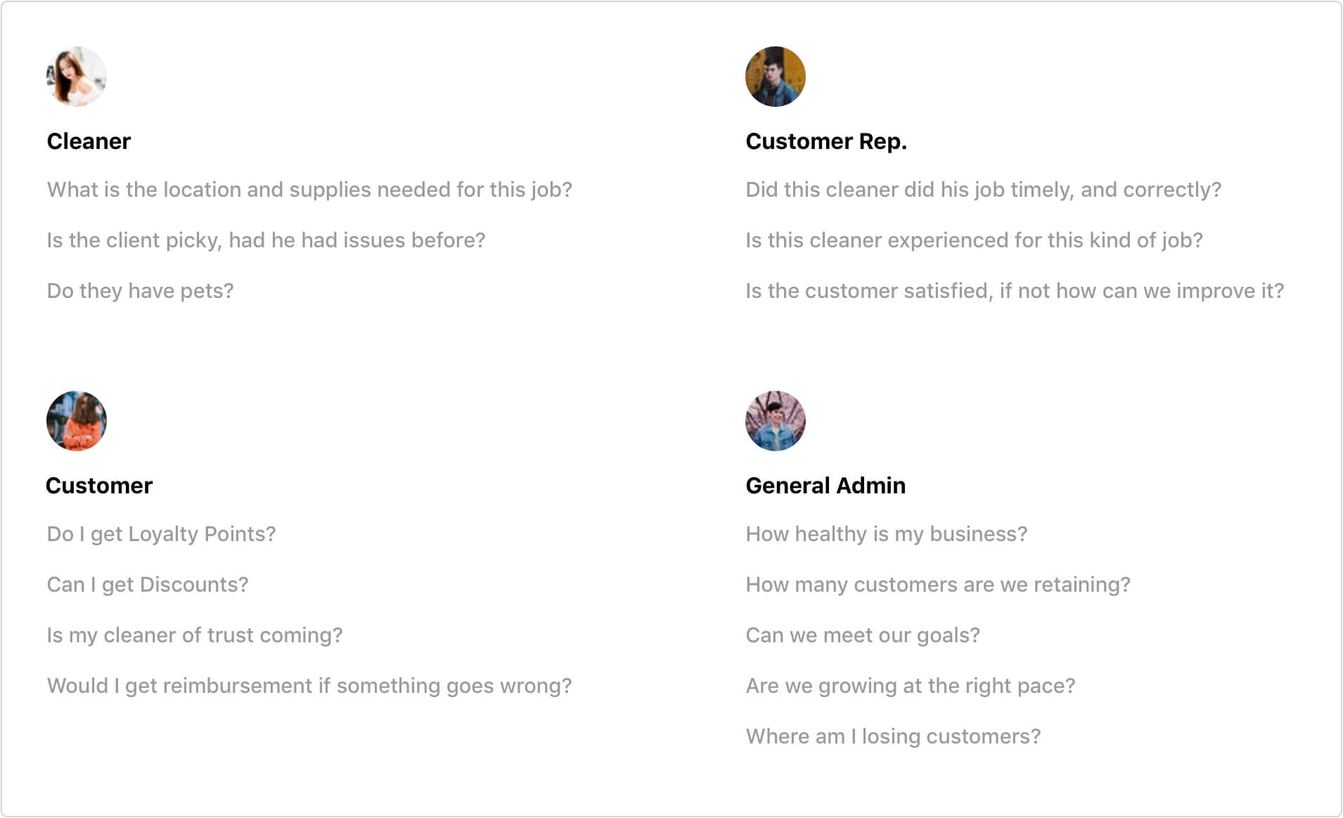
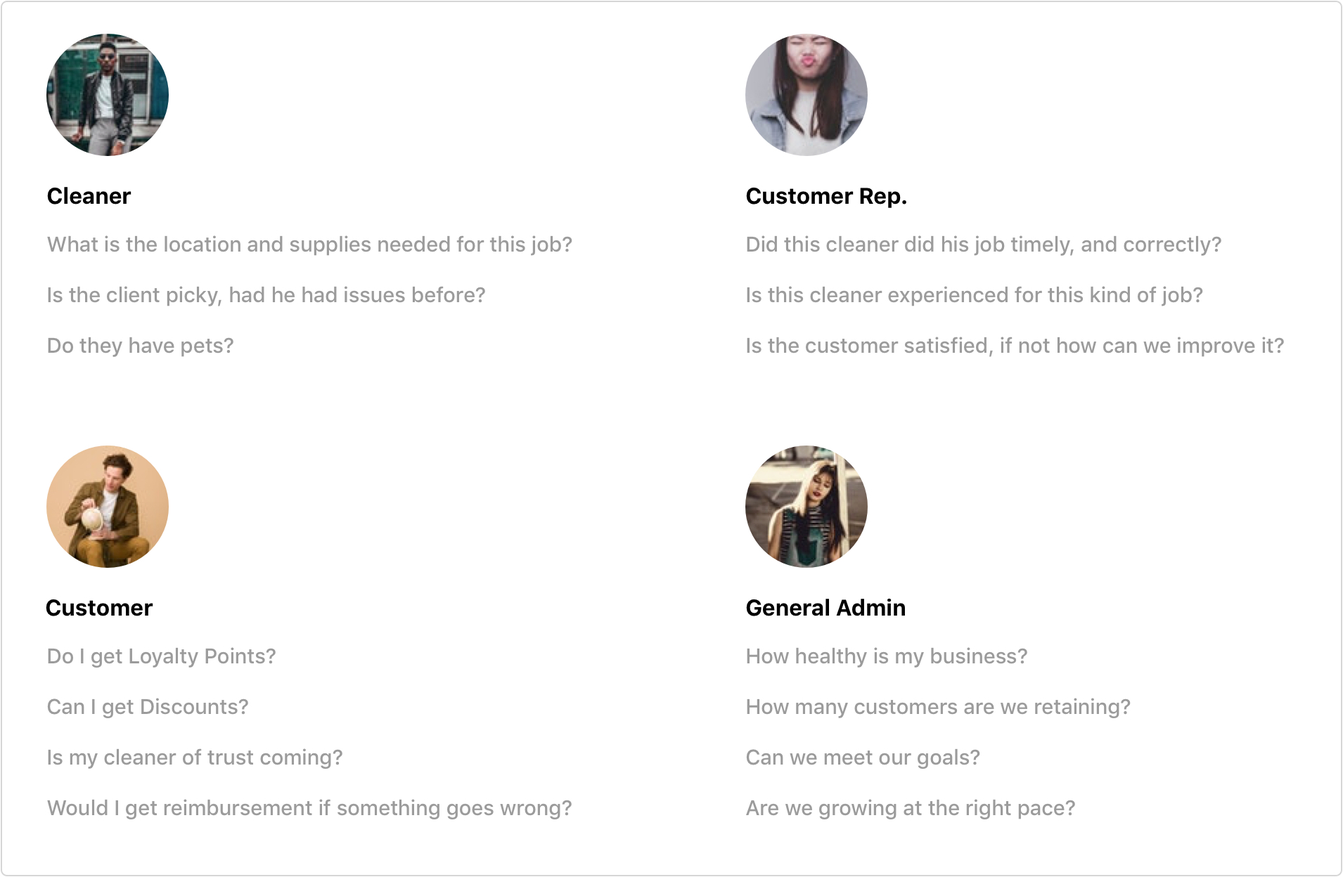
CRM case study

diff --git a/_includes/cleancrm.html b/_includes/cleancrm.html
@@ -1,1 +1,2 @@
-<section role="main" class="margin-bottom-75"><div class="container"><div class="row"><div class="col-md-8 col-md-offset-3 col-sx-12"><div class="intro-text"><h1 class="work-sans title intro-title color-0">Clean CRM</h1></div><p>Management product for cleaning service companies. Smoothly administrating all the customers, bookings, quotes and employees on a cleaning service company.</p></div></div></div></section><article role="article" class="no-margin-bottom margin-top-50"><div class="container"><div class="row"><div class="col-xs-12 col-md-12"><img src="/img/work/cleancrm/crm-header.jpg" alt="intro crm" class="no-margin-bottom"/></div></div></div></article><article role="article" class="no-margin-top"><hr/><div class="container margin-top-25"><div class="row"><div class="col-md-3"><div class="row"><p></p><div class="col-xs-3"><h2 class="section-description muted no-margin">Name</h2></div><div class="col-xs-6"><h2 class="section-description no-margin">Clean CRM</h2></div></div><div class="row"><div class="col-xs-3"><h2 class="section-description muted no-margin">Year</h2></div><div class="col-xs-6"><h2 class="section-description no-margin">2016 — 2017</h2></div></div><div class="row"><div class="col-xs-3"><h2 class="section-description muted no-margin">Role</h2></div><div class="col-xs-6"><h2 class="section-description no-margin">Sole Designer</h2></div></div><div class="row"><div class="col-xs-3"><h2 class="section-description muted no-margin">Time</h2></div><div class="col-xs-6"><h2 class="section-description no-margin">8 weeks</h2></div></div></div><div class="col-md-9"><p> </p><p>I partnered up with an NYC Cleaning Service company wanting to automate their services. They had a non-functioning MVP and a clear goal before reaching out. </p><p> The application that they were using previously failed to adapt to the increasingly complex demands of new features to support a growing cleaning service company. </p><p>The company used another a third party software service that even though offered data about bookings and quotes, was missing the customer features and a way to keep everything organized.</p><div class="row"><div class="col-md-12 margin-bottom-50"><img src="/img/work/cleancrm/old-dashboards.jpg" alt="old dashboards"/></div></div></div></div></div></article><article role="article" class="margin-top-25"><hr/><div class="container margin-top-25"><div class="row"><div class="col-md-3"><h2 class="section-title">RESEARCH</h2></div><div class="col-md-9"><p></p><p>The client and me, tried to be effective during our research phase, making it short and useful. We gathered data from user feedback, reports, and competitive analysis. We continued to create assumptions that we later validated with surveys and interviews of the staff.</p><p>The client and staff had needs, but customers too. Trying to get those goals aligned to scoping which features would be useful to them, what goals do they need to accomplish as a Staff and what are the customer needs and desires.</p><div class="margin-top-25"></div></div></div></div></article><article role="article" class="margin-top-25"><hr/><div class="container margin-top-25"><div class="row"><div class="col-md-3"><h2 class="section-title">Persona Development</h2></div><div class="col-md-9"><p></p><p>Our users are admins, they work in the doing customer support for the cleaning service company. They should take calls from client complains, take the information down and make decisions like provide refunds, assign new cleaners, create assignments and give them rewards. Their role is to assist the customer with all their needs, have a clear and fast understanding of the complete the company.</p><p>To test our ideas and hypothesis, we created some profiles of the often employees. Testing helped understand possible scenarios and to see which functions could be useful.</p><p>We also created profiles of the customers and their needs and goals, even though they are not using the application. Having a perspective of their goals is what is going to drive us to make a useful product.</p><p></p><div class="row margin-top-25"><div class="col-xs-12 col-md-6 margin-bottom-25"><img src="/img/work/cleancrm/pp1.jpg" alt="person cleaner" class="mw-10 no-margin"/><h3 class="f1 lh-1 work-sans">Cleaner</h3><p class="f2 lh-1">What is the location and supplies needed for this job?  </p><p class="f2 lh-1">Is the client picky, had he had issues before?</p><p class="f2 lh-1">  Do they have pets?</p><h3> </h3></div><div class="col-xs-12 col-md-6 margin-bottom-25"><img src="/img/work/cleancrm/pp2.jpg" alt="person cleaner" class="mw-10 no-margin"/><h3 class="f1 lh-1 work-sans">Customer Rep.</h3><p class="f2 lh-1">Did this cleaner did his job timely, and correctly? </p><p class="f2 lh-1">Is this cleaner experienced for this kind of job?</p><p class="f2 lh-1">Is the customer satisfied, if not how can we improve it?</p><h3></h3></div><div class="col-xs-12 col-md-6 margin-bottom-25"><img src="/img/work/cleancrm/pp3.jpg" alt="person cleaner" class="mw-10 no-margin"/><h3 class="f1 lh-1 work-sans">Customer</h3><p class="f2 lh-1">Do I get Loyalty Points?  </p><p class="f2 lh-1">Is my cleaner of trust coming?</p><p class="f2 lh-1">Is the customer satisfied, if not how can we improve it?</p><p class="f2 lh-1"> Would I get reimbursement if something goes wrong?</p><h3></h3></div><div class="col-xs-12 col-md-6 margin-bottom-25"><img src="/img/work/cleancrm/pp4.jpg" alt="person cleaner" class="mw-10 no-margin"/><h3 class="f1 lh-1 work-sans">General Admin</h3><p class="f2 lh-1">How healthy is my business?</p><p class="f2 lh-1">  How many customers are we retaining?</p><p class="f2 lh-1">  Can we meet our goals?</p><p class="f2 lh-1">  Are we growing at the right pace?</p><p class="f2 lh-1">  Where am I losing customers?</p><h3></h3></div></div></div></div></div></article><article role="article" class="margin-top-25"><hr/><div class="container margin-top-25"><div class="row"><div class="col-md-3"><h2 class="section-title">User Task Flow</h2></div><div class="col-md-9"><p></p><p>Task flows helped us to think through the design before a feature is actually developed. It helped us to interject the user into the flow model of the application to determine if it matches conceptually with what we need.</p><div class="margin-top-25"><div class="row"><div class="col-xs-12 col-md-12"><img src="/img/work/cleancrm/user-task-flow-1.jpg" alt="user task flow"/></div></div></div></div></div></div></article><article role="article" class="no-margin margin-top-25"><hr/><div class="container margin-top-25"><div class="row"><div class="col-md-3"><h2 class="section-title margin-bottom-25">COMPETITIVE RESEARCH</h2></div><div class="col-md-9"><p></p><p>It is essential to look into other players on the market and understand the products that we are going to compete. We have two main categories in the direct competition, software companies who offer the service and other traditional cleaning service companies.</p><p>In the end, we agreed on creating a Saas Product to spread the business goals offering a CRM tool for small-medium size cleaning service companies.</p><h2></h2><p>Metrics for the competitive analysis:</p><p>• User goals and product goals</p><p>• Areas and locations of service</p><p>• Customer retention & opinions</p><p>• Marketing investment</p><div class="row"><div class="col-xs-6 col-md-3 center"><img src="/img/work/cleancrm/logo-1.jpg" alt="competitors"/></div><div class="col-xs-6 col-md-3 center"><img src="/img/work/cleancrm/logo-2.jpg" alt="competitors"/></div><div class="col-xs-6 col-md-3"><img src="/img/work/cleancrm/logo-3.jpg" alt="competitors"/></div><div class="col-xs-6 col-md-3"><img src="/img/work/cleancrm/logo-4.jpg" alt="competitors"/></div></div><div class="row"><div class="col-md-12"><img src="/img/work/cleancrm/gmaps-competition2.jpg" alt="competitors" class="shadow-1"/></div></div></div></div></div></article><article role="article"><hr/><div class="container margin-top-25"><div class="row"><div class="col-md-3"><h2 class="section-title">SCOPE</h2></div><div class="col-md-9"><p></p><p>As a small company, time and budget require fast turnaround and control. I worked closely with developers from different parts of the world to bring the platform to life. For that, we needed to manage time and constraints, Manage time and scope is harder than it sounds. We kept spreadsheets of flows and features and Trello boards of the needs and sprints of work.</p><p>List of screens from screen map:</p><p>• Specify features for each screen</p><p>• Assign priorities Must-have (First release) Nice to have (Next Release)</p><p>• Fill in development time estimates</p><div class="margin-top-25"><div class="row"><div class="col-xs-12 col-md-12"><img src="/img/work/cleancrm/scope.jpg" alt="Scope spreadsheet"/></div></div></div></div></div></div></article><article role="article" class="margin-top-25"><hr/><div class="container margin-top-25"><div class="row"><div class="col-md-3"><h2 class="section-title">SCREEN MAPPING</h2></div><div class="col-md-9"><p></p><p>Having a whole view of all screens and screen states helps to manage and have everything tidy and organized for next iterations. For that, I use tools like MindNode since is faster and everyone can contribute.</p><p>We tried to keep this document alive by keeping it in sync with the Scope of the application and the number of features they represent.</p><div class="margin-top-25"><div class="row"><div class="col-xs-12 col-md-12"><img src="/img/work/cleancrm/screen-map-2.jpg" alt="screen maps"/></div></div></div></div></div></div></article><article role="article"><hr/><div class="container margin-top-25"><div class="row"><div class="col-md-3"><h2 class="section-title">GRID SYSTEM</h2></div><div class="col-md-9"><p></p><p>A consistent grid helps designers layout UI quickly and consistently and consequently developers to create components the same way. I used an 8pt soft grid based on Android Material, scaling spaces and components from 4, 8, 16, 24 and alike. Also using a column and height grid to keep a visual rhythm into the application.</p><div class="margin-top-25"><div class="row"><div class="col-xs-12 col-md-8"> <svg xmlns="http://www.w3.org/2000/svg" width="393" height="229" viewbox="0 0 393 229"><g fill="none" fill-rule="evenodd" transform="translate(0 -1)"></g><g fill="#FF9797" transform="translate(0 2)"><rect width="272.454" height="85" x=".546" fill-opacity=".495" opacity=".2"></rect><rect width="272.454" height="85" x=".546" fill-opacity=".495" opacity=".2"></rect><rect width="14.742" height="85" fill-opacity=".75"></rect><rect width="14.742" height="85" x="23.478" fill-opacity=".495"></rect><rect width="14.742" height="85" x="46.956" fill-opacity=".495"></rect><rect width="14.742" height="85" x="70.434" fill-opacity=".495"></rect><rect width="14.742" height="85" x="93.912" fill-opacity=".495"></rect><rect width="14.742" height="85" x="117.39" fill-opacity=".495"></rect><rect width="14.742" height="85" x="140.868" fill-opacity=".495"></rect><rect width="14.742" height="85" x="164.346" fill-opacity=".495"></rect><rect width="14.742" height="85" x="187.824" fill-opacity=".495"></rect><rect width="14.742" height="85" x="211.302" fill-opacity=".495"></rect><rect width="14.742" height="85" x="234.78" fill-opacity=".495"></rect><rect width="14.742" height="85" x="258.258" fill-opacity=".75"></rect></g><g fill="#FF9797" transform="translate(0 115)"><rect width="198.602" height="52" x=".398" fill-opacity=".495" opacity=".2"></rect><rect width="198.602" height="52" x=".398" fill-opacity=".495" opacity=".2"></rect><rect width="10.746" height="52" fill-opacity=".75"></rect><rect width="10.746" height="52" x="17.114" fill-opacity=".495"></rect><rect width="10.746" height="52" x="34.228" fill-opacity=".495"></rect><rect width="10.746" height="52" x="51.342" fill-opacity=".495"></rect><rect width="10.746" height="52" x="68.456" fill-opacity=".495"></rect><rect width="10.746" height="52" x="85.57" fill-opacity=".495"></rect><rect width="10.746" height="52" x="102.684" fill-opacity=".495"></rect><rect width="10.746" height="52" x="119.798" fill-opacity=".495"></rect><rect width="10.746" height="52" x="136.912" fill-opacity=".495"></rect><rect width="10.746" height="52" x="154.026" fill-opacity=".495"></rect><rect width="10.746" height="52" x="171.14" fill-opacity=".495"></rect><rect width="10.746" height="52" x="188.254" fill-opacity=".75"></rect></g><g font-size="7.84" transform="translate(290)"><g transform="translate(1 61.57)"><text fill="#15101C" fill-opacity=".5" font-family="HelveticaNeue, Helvetica Neue"><tspan x="46.439" y="7.56">24px</tspan></text><text fill="#475066" font-family="HelveticaNeue-Medium, Helvetica Neue" font-weight="400" letter-spacing=".493"><tspan x=".471" y="8">GUTTER</tspan><tspan x="34.796" y="8">:</tspan></text></g><g transform="translate(0 46.177)"><text fill="#15101C" fill-opacity=".5" font-family="HelveticaNeue, Helvetica Neue"><tspan x="85.519" y="7">70px</tspan></text><text fill="#475066" font-family="HelveticaNeue-Medium, Helvetica Neue" font-weight="400" letter-spacing=".493"><tspan x=".914" y="8">COLUMNS WIDTH</tspan><tspan x="74.541" y="8">:</tspan></text></g><g transform="translate(1 30.785)"><text fill="#15101C" fill-opacity=".5" font-family="HelveticaNeue, Helvetica Neue"><tspan x="54.727" y="7.56">12</tspan></text><text fill="#475066" font-family="HelveticaNeue-Medium, Helvetica Neue" font-weight="400" letter-spacing=".493"><tspan x=".343" y="8">COLUMNS</tspan><tspan x="43.283" y="8">:</tspan></text></g><g transform="translate(1)"><text fill="#475066" font-family="HelveticaNeue-Medium, Helvetica Neue" font-weight="400" letter-spacing=".493"><tspan x=".143" y="8">TOTAL WIDTH</tspan><tspan x="57.559" y="8">:</tspan></text><text fill="#15101C" fill-opacity=".5" font-family="HelveticaNeue, Helvetica Neue"><tspan x="68.614" y="7">1920px</tspan></text></g><g transform="translate(1 15.392)"><text fill="#15101C" fill-opacity=".5" font-family="HelveticaNeue, Helvetica Neue"><tspan x="44.807" y="7">40px</tspan></text><text fill="#475066" font-family="HelveticaNeue-Medium, Helvetica Neue" font-weight="400" letter-spacing=".493"><tspan x=".486" y="8">OFFSET</tspan><tspan x="33.368" y="8">:</tspan></text></g></g><g font-size="7.84" transform="translate(216 114)"><g transform="translate(1 40.078)"><text fill="#15101C" fill-opacity=".5" font-family="HelveticaNeue, Helvetica Neue"><tspan x="46.496" y="7.59">5px</tspan></text><text fill="#475066" font-family="HelveticaNeue-Medium, Helvetica Neue" font-weight="400" letter-spacing=".493"><tspan x=".471" y="8.03">GUTTER</tspan><tspan x="34.796" y="8.03">:</tspan></text></g><g transform="translate(0 26.902)"><text fill="#15101C" fill-opacity=".5" font-family="HelveticaNeue, Helvetica Neue"><tspan x="85.519" y="7.027">50px</tspan></text><text fill="#475066" font-family="HelveticaNeue-Medium, Helvetica Neue" font-weight="400" letter-spacing=".493"><tspan x=".914" y="8.03">COLUMNS WIDTH</tspan><tspan x="74.541" y="8.03">:</tspan></text></g><g transform="translate(1)"><text fill="#475066" font-family="HelveticaNeue-Medium, Helvetica Neue" font-weight="400" letter-spacing=".493"><tspan x=".143" y="8.03">TOTAL WIDTH</tspan><tspan x="57.559" y="8.03">:</tspan></text><text fill="#15101C" fill-opacity=".5" font-family="HelveticaNeue, Helvetica Neue"><tspan x="68.686" y="7.027">768px</tspan></text></g><g transform="translate(1 13.176)"><text fill="#15101C" fill-opacity=".5" font-family="HelveticaNeue, Helvetica Neue"><tspan x="44.864" y="7.027">0px</tspan></text><text fill="#475066" font-family="HelveticaNeue-Medium, Helvetica Neue" font-weight="400" letter-spacing=".493"><tspan x=".486" y="8.03">OFFSET</tspan><tspan x="33.368" y="8.03">:</tspan></text></g></g><g transform="translate(0 194)"><g fill="#FF9797" transform="translate(0 1.635)"><rect width="127.167" height="34.326" x=".255" fill-opacity=".495" opacity=".2"></rect><rect width="127.167" height="34.326" x=".255" fill-opacity=".495" opacity=".2"></rect><rect width="6.881" height="34.326" fill-opacity=".75"></rect><rect width="6.881" height="34.326" x="10.958" fill-opacity=".495"></rect><rect width="6.881" height="34.326" x="21.917" fill-opacity=".495"></rect><rect width="6.881" height="34.326" x="32.875" fill-opacity=".495"></rect><rect width="6.881" height="34.326" x="43.833" fill-opacity=".495"></rect><rect width="6.881" height="34.326" x="54.791" fill-opacity=".495"></rect><rect width="6.881" height="34.326" x="65.75" fill-opacity=".495"></rect><rect width="6.881" height="34.326" x="76.708" fill-opacity=".495"></rect><rect width="6.881" height="34.326" x="87.666" fill-opacity=".495"></rect><rect width="6.881" height="34.326" x="98.625" fill-opacity=".495"></rect><rect width="6.881" height="34.326" x="109.583" fill-opacity=".495"></rect><rect width="6.881" height="34.326" x="120.541" fill-opacity=".75"></rect></g><g font-size="7.84" transform="translate(145.562)"><g transform="translate(0 13.485)"><text fill="#15101C" fill-opacity=".5" font-family="HelveticaNeue, Helvetica Neue"><tspan x="85.008" y="7">22px</tspan></text><text fill="#475066" font-family="HelveticaNeue-Medium, Helvetica Neue" font-weight="400" letter-spacing=".493"><tspan x=".109" y="8">COLUMNS WIDTH</tspan><tspan x="73.736" y="8">:</tspan></text></g><g><text fill="#475066" font-family="HelveticaNeue-Medium, Helvetica Neue" font-weight="400" letter-spacing=".493"><tspan x=".297" y="8">TOTAL WIDTH</tspan><tspan x="57.713" y="8">:</tspan></text><text fill="#15101C" fill-opacity=".5" font-family="HelveticaNeue, Helvetica Neue"><tspan x="69.102" y="7">320px</tspan></text></g></g></g></svg></div><div class="col-xs-12 col-md-6"><img src="/img/work/cleancrm/guidelines.jpg" alt="grid interface"/></div><div class="col-xs-12 col-md-6"><img src="/img/work/cleancrm/screens-1.jpg" alt="screen sizes responsive"/></div></div></div></div></div></div></article><article role="article" class="margin-top-25"><hr/><div class="container margin-top-25"><div class="row"><div class="col-md-3"><h2 class="section-title">INTERACTIONS</h2></div><div class="col-md-9"><p></p><p>Managing all interactions across the application to create a seamless experience will make the product stand out.</p><div class="margin-top-25"><div class="row"><div class="col-xs-12 col-md-12"><img src="/img/work/cleancrm/modal-warning.jpg" alt="modal-warning"/></div><div class="col-xs-12 col-md-12"><img src="/img/work/cleancrm/edit-information.jpg" alt="modal-warning"/></div><div class="col-xs-12 col-md-12"><img src="/img/work/cleancrm/modals-2.jpg" alt="Modals"/></div></div></div></div></div></div></article><article role="article" class="margin-top-25"><hr/><div class="container margin-top-25"><div class="row"><div class="col-md-3"><h2 class="section-title">DESIGN LANGUAGE</h2></div><div class="col-md-9"><p></p><p>I helped introducing a new design lenguage to make their product easier to navigate and find information. I created a UI Library and design system to make it easier for designers and developers to continue the work after I leave so they can continue working on the platform without having to worry about getting off track.</p><div class="row"><div class="col-xs-12 col-md-12"><img src="/img/work/cleancrm/component-3.jpg" alt="component"/></div></div></div></div></div></article><article role="article"><hr/><div class="container margin-top-25"><div class="row"><div class="col-md-3"><h2 class="section-title">INTERFACE</h2></div><div class="col-md-9"><p></p><p>The platform helps keeping track of potential and current customers, everything while giving them feedback on the health of the business at a glance.</p></div></div><div class="row"><div class="col-xs-12 col-md-7"><img src="/img/work/cleancrm/1-2-4_Dashboard-Home-Recurring-Remove-Payment.jpg" alt="Recurring payments Dash" class="shadow-1"/></div><div class="col-xs-12 col-md-5"><img src="/img/work/cleancrm/3-3-1_Notes_Booking-Upcoming-Points.jpg" alt="Booking_Notes" class="shadow-1"/></div><div class="col-xs-12 col-md-5"><img src="/img/work/cleancrm/4-2-4_Quotes-Expanded-Notification_Box.jpg" alt="Quotes_Notes" class="shadow-1"/></div></div></div></article><article role="article"><hr/><div class="container margin-top-25"><div class="row"><div class="col-md-3"><h2 class="section-title">RESULTS</h2></div><div class="col-md-9"><p></p><p>The client was really happy and we were dog fooding a beta with plans to transform the product into a Sass company. </p><p>There are three things I think will have the most impact on my ongoing career and process:</p><h2></h2><p class="bold">Planning and management</p><p>I learned a lot about how to manage design sprints and the expectations at the end of them.  </p><p class="bold">Exploring from early on the project</p><p>Every project is different, and the process most adjusts to resources, timeline, and constraints.</p><p class="bold">Deep research and understanding of the business</p><p>Getting to understand the business pains from top to bottom is crucial if you plan to offer solutions to that. Get and clean for a few days if that's necessary.</p></div></div></div></article><section role="main" id="work-section"><div class="container"><div class="row"><div class="col-md-6 col-xs-8"><h2 class="section-title">SEE MORE PROJECTS</h2></div></div></div><hr/><div class="container"><div class="row"><div class="col-xs-6 col-sm-6 col-md-3 col-md-offset-3 work"><a href="{{site.baseurl}}/work/condominium" class="no-link"><div class="project-image"><img src="{{site.baseurl}}/img/preview/work-preview/work_preview-condominium.jpg" alt="Condominium" class="project-photo"/></div><div class="tags"><div class="tag">Frontend</div><div class="tag">Product Design</div></div><div class="project-text"><p class="no-link">Designed Lead the UI development of a new application for condominium managers and tenants.</p><a href="{{site.baseurl}}/work/condominium" class="project-description color-6 text-underline-1 color-3">See case study</a></div></a></div><div class="col-xs-6 col-sm-6 col-md-3 work"><a href="https://www.starklabs.io/" target="_blank" class="no-link"><div class="project-image"><img src="{{site.baseurl}}/img/preview/work-preview/work_preview-stark.jpg" alt="stark" class="project-photo"/></div><div class="tags"><div class="tag">Illustration</div><div class="tag">Design</div><div class="tag">Dev.</div></div><div class="project-text"><p class="no-link">Developed, illustrated and designed the marketing site for a new Chatbot/Ai development agency.</p><a href="https://www.starklabs.io/" class="project-description color-6 text-underline-1 color-3">Visit site</a></div></a></div><div class="col-xs-6 col-sm-6 col-md-3 work"><a href="{{site.baseurl}}/work/webpack" class="no-link"><div class="project-image"><img src="{{site.baseurl}}/img/preview/work-preview/work_preview-webpack.jpg" alt="webpack" class="project-photo"/></div><div class="tags"><div class="tag">Design</div><div class="tag">Branding</div></div><div class="project-text"><p class="no-link">Designing the marketing and brand of an Open Source plugin for the most popular front-end bundle.</p><a href="{{site.baseurl}}/work/webpack" class="project-description color-6 text-underline-1 color-3">See case study</a></div></a></div></div></div></section>
+<section role="main" class="margin-bottom-75"><div class="container"><div class="row"><div class="col-md-8 col-md-offset-3 col-sx-12"><div class="intro-text"><h1 class="work-sans title intro-title color-0">Clean CRM</h1></div><p>Management product for cleaning service companies. Smoothly administrating all the customers, bookings, quotes and employees on a cleaning service company.</p></div></div></div></section><article role="article" class="no-margin-bottom margin-top-50"><div class="container"><div class="row"><div class="col-xs-12 col-md-12"><img src="/img/work/cleancrm/crm-header.jpg" alt="intro crm" class="no-margin-bottom"/></div></div></div></article><article role="article" class="no-margin-top"><hr/><div class="container margin-top-25"><div class="row"><div class="col-md-3"><div class="row"><p></p><div class="col-xs-3"><h2 class="section-description muted no-margin">Name</h2></div><div class="col-xs-6"><h2 class="section-description no-margin">Clean CRM</h2></div></div><div class="row"><div class="col-xs-3"><h2 class="section-description muted no-margin">Year</h2></div><div class="col-xs-6"><h2 class="section-description no-margin">2016 — 2017</h2></div></div><div class="row"><div class="col-xs-3"><h2 class="section-description muted no-margin">Role</h2></div><div class="col-xs-6"><h2 class="section-description no-margin">Designer</h2></div></div><div class="row"><div class="col-xs-3"><h2 class="section-description muted no-margin">Time</h2></div><div class="col-xs-6"><h2 class="section-description no-margin">8 weeks</h2></div></div></div><div class="col-md-8"><p> </p><p>I partnered up with an NYC Cleaning Service company wanting to automate their services. They had a non-functioning MVP and a clear goal before reaching out. </p><p> The application that they were using previously failed to adapt to the increasingly complex demands of new features to support a growing cleaning service company. </p></div></div></div></article>
+<article role="article" class="no-margin margin-top-25"><hr/><div class="container margin-top-25"><div class="row"><div class="col-md-3"><h2 class="section-title margin-bottom-25">COMPETITIVE RESEARCH</h2></div><div class="col-md-8"><p></p><p>It is essential to look into other players on the market and understand the products that we are going to compete. We have two main categories in the direct competition, software companies who offer the service and other traditional cleaning service companies.</p><p>In the end, we agreed on creating a Saas Product to spread the business goals offering a CRM tool for small-medium size cleaning service companies.</p><h2></h2><p>Metrics for the competitive analysis:</p><p>• User goals and product goals</p><p>• Areas and locations of service</p><p>• Customer retention & opinions</p><p>• Marketing investment</p><div class="row"><div class="col-xs-6 col-md-3 center"><img src="/img/work/cleancrm/logo-1.jpg" alt="competitors"/></div><div class="col-xs-6 col-md-3 center"><img src="/img/work/cleancrm/logo-2.jpg" alt="competitors"/></div><div class="col-xs-6 col-md-3"><img src="/img/work/cleancrm/logo-3.jpg" alt="competitors"/></div><div class="col-xs-6 col-md-3"><img src="/img/work/cleancrm/logo-4.jpg" alt="competitors"/></div></div></div><div class="row"><div class="col-md-9 col-md-offset-3 col-sx-12"><img src="/img/work/cleancrm/gmaps-competition2.jpg" alt="competitors" class="shadow-1"/></div></div></div></div></article><article role="article" class="margin-top-25"><hr/><div class="container margin-top-25"><div class="row"><div class="col-md-3"><h2 class="section-title">Persona Development</h2></div><div class="col-md-8"><p></p><p>To test our ideas and hypothesis, we asked employees what their pain points were. Testing helped understand possible scenarios and to see which functions could be useful.</p><p>We also created profiles of the customers and their needs and goals, even though they are not using the application. Having a perspective of their goals is what is going to drive us to make a useful product.</p><p class="margin-bottom-75"></p><div class="row margin-top-75"><div class="col-xs-12 col-md-9 margin-bottom-25"><img src="/img/work/cleancrm/pp1.jpg" alt="person cleaner" class="mw-15 no-margin"/><h3 class="f1 lh-1 work-sans">Cleaner</h3><p class="f1 lh-1 color-1">— What is the location and supplies needed?  </p><p class="f1 lh-1 color-1">— Is the client picky, had he had issues before?</p><p class="f1 lh-1 color-1">—   Do they have pets?</p><h3> </h3></div><div class="col-xs-12 col-md-9 margin-bottom-25"><img src="/img/work/cleancrm/pp2.jpg" alt="person cleaner" class="mw-15 no-margin"/><h3 class="f1 lh-1 work-sans">Customer Rep.</h3><p class="f1 lh-1 color-1">— Did this cleaner did his job timely? </p><p class="f1 lh-1 color-1">— Is this cleaner experienced for this kind of job?</p><p class="f1 lh-1 color-1">— Is the customer satisfied, if not how can we improve it?</p><h3></h3></div><div class="col-xs-12 col-md-9 margin-bottom-25"><img src="/img/work/cleancrm/pp3.jpg" alt="person cleaner" class="mw-15 no-margin"/><h3 class="f1 lh-1 work-sans">Customer</h3><p class="f1 lh-1 color-1">— Do I get Loyalty Points?  </p><p class="f1 lh-1 color-1">— Is my cleaner of trust coming?</p><p class="f1 lh-1 color-1">—  Would I get reimbursement if something goes wrong?</p><h3></h3></div><div class="col-xs-12 col-md-9 margin-bottom-25"><img src="/img/work/cleancrm/pp4.jpg" alt="person cleaner" class="mw-15 no-margin"/><h3 class="f1 lh-1 work-sans">General Admin</h3><p class="f1 lh-1 color-1">— How healthy is my business?</p><p class="f1 lh-1 color-1">—   How many customers are we retaining?</p><p class="f1 lh-1 color-1">—   Can we meet our goals?</p><h3></h3></div></div><div class="row margin-top-75"><div class="col-xs-12 col-md-12 margin-bottom-25"><img src="/img/work/cleancrm/persona-2.jpg" alt="person cleaner" class="no-margin"/></div></div></div></div></div></article><article role="article" class="margin-top-25"><hr/><div class="container margin-top-25"><div class="row"><div class="col-md-3"><h2 class="section-title">User Task Flow</h2></div><div class="col-md-9"><p></p><p>Task flows helped us to think through the design before a feature is actually developed. It helped us to interject the user into the flow model of the application to determine if it matches conceptually with what we need.</p><div class="margin-top-25"><div class="row"><div class="col-xs-12 col-md-12"><img src="/img/work/cleancrm/user-flow-separated.jpg" alt="user task flow"/></div></div></div></div></div></div></article><article role="article"><hr/><div class="container margin-top-25"><div class="row"><div class="col-md-3"><h2 class="section-title">SCOPE</h2></div><div class="col-md-9"><p></p><p>As a small company, time and budget require fast turnaround and control. I worked closely with developers from different parts of the world to bring the platform to life. For that, we needed to manage time and constraints, Manage time and scope is harder than it sounds. We kept spreadsheets of flows and features and Trello boards of the needs and sprints of work.</p><p>List of screens from screen map:</p><p>• Specify features for each screen</p><p>• Assign priorities Must-have (First release) Nice to have (Next Release)</p><p>• Fill in development time estimates</p><div class="margin-top-25"><div class="row"><div class="col-xs-12 col-md-12"><img src="/img/work/cleancrm/scope-2.jpg" alt="Scope spreadsheet" class="shadow-1"/></div></div></div></div></div></div></article><article role="article" class="margin-top-25"><hr/><div class="container margin-top-25"><div class="row"><div class="col-md-3"><h2 class="section-title">SCREEN MAPPING</h2></div><div class="col-md-9"><p></p><p>Having a whole view of all screens and screen states helps to manage and have everything tidy and organized for next iterations. For that, I use tools like MindNode since is faster and everyone can contribute.</p><p>We tried to keep this document alive by keeping it in sync with the Scope of the application and the number of features they represent.</p><div class="margin-top-25"><div class="row"><div class="col-xs-12 col-md-12"><img src="/img/work/cleancrm/screen-map-2.jpg" alt="screen maps"/></div></div></div></div></div></div></article><article role="article"><hr/><div class="container margin-top-25"><div class="row"><div class="col-md-3"><h2 class="section-title">GRID SYSTEM</h2></div><div class="col-md-9"><p></p><p>A consistent grid helps designers layout UI quickly and consistently and consequently developers to create components the same way. I used an 8pt soft grid based on Android Material, scaling spaces and components from 4, 8, 16, 24 and alike. Also using a column and height grid to keep a visual rhythm into the application.</p><div class="margin-top-25"><div class="row"><div class="col-xs-12 col-md-8"> <svg xmlns="http://www.w3.org/2000/svg" width="393" height="229" viewbox="0 0 393 229"><g fill="none" fill-rule="evenodd" transform="translate(0 -1)"></g><g fill="#FF9797" transform="translate(0 2)"><rect width="272.454" height="85" x=".546" fill-opacity=".495" opacity=".2"></rect><rect width="272.454" height="85" x=".546" fill-opacity=".495" opacity=".2"></rect><rect width="14.742" height="85" fill-opacity=".75"></rect><rect width="14.742" height="85" x="23.478" fill-opacity=".495"></rect><rect width="14.742" height="85" x="46.956" fill-opacity=".495"></rect><rect width="14.742" height="85" x="70.434" fill-opacity=".495"></rect><rect width="14.742" height="85" x="93.912" fill-opacity=".495"></rect><rect width="14.742" height="85" x="117.39" fill-opacity=".495"></rect><rect width="14.742" height="85" x="140.868" fill-opacity=".495"></rect><rect width="14.742" height="85" x="164.346" fill-opacity=".495"></rect><rect width="14.742" height="85" x="187.824" fill-opacity=".495"></rect><rect width="14.742" height="85" x="211.302" fill-opacity=".495"></rect><rect width="14.742" height="85" x="234.78" fill-opacity=".495"></rect><rect width="14.742" height="85" x="258.258" fill-opacity=".75"></rect></g><g fill="#FF9797" transform="translate(0 115)"><rect width="198.602" height="52" x=".398" fill-opacity=".495" opacity=".2"></rect><rect width="198.602" height="52" x=".398" fill-opacity=".495" opacity=".2"></rect><rect width="10.746" height="52" fill-opacity=".75"></rect><rect width="10.746" height="52" x="17.114" fill-opacity=".495"></rect><rect width="10.746" height="52" x="34.228" fill-opacity=".495"></rect><rect width="10.746" height="52" x="51.342" fill-opacity=".495"></rect><rect width="10.746" height="52" x="68.456" fill-opacity=".495"></rect><rect width="10.746" height="52" x="85.57" fill-opacity=".495"></rect><rect width="10.746" height="52" x="102.684" fill-opacity=".495"></rect><rect width="10.746" height="52" x="119.798" fill-opacity=".495"></rect><rect width="10.746" height="52" x="136.912" fill-opacity=".495"></rect><rect width="10.746" height="52" x="154.026" fill-opacity=".495"></rect><rect width="10.746" height="52" x="171.14" fill-opacity=".495"></rect><rect width="10.746" height="52" x="188.254" fill-opacity=".75"></rect></g><g font-size="7.84" transform="translate(290)"><g transform="translate(1 61.57)"><text fill="#15101C" fill-opacity=".5" font-family="HelveticaNeue, Helvetica Neue"><tspan x="46.439" y="7.56">24px</tspan></text><text fill="#475066" font-family="HelveticaNeue-Medium, Helvetica Neue" font-weight="400" letter-spacing=".493"><tspan x=".471" y="8">GUTTER</tspan><tspan x="34.796" y="8">:</tspan></text></g><g transform="translate(0 46.177)"><text fill="#15101C" fill-opacity=".5" font-family="HelveticaNeue, Helvetica Neue"><tspan x="85.519" y="7">70px</tspan></text><text fill="#475066" font-family="HelveticaNeue-Medium, Helvetica Neue" font-weight="400" letter-spacing=".493"><tspan x=".914" y="8">COLUMNS WIDTH</tspan><tspan x="74.541" y="8">:</tspan></text></g><g transform="translate(1 30.785)"><text fill="#15101C" fill-opacity=".5" font-family="HelveticaNeue, Helvetica Neue"><tspan x="54.727" y="7.56">12</tspan></text><text fill="#475066" font-family="HelveticaNeue-Medium, Helvetica Neue" font-weight="400" letter-spacing=".493"><tspan x=".343" y="8">COLUMNS</tspan><tspan x="43.283" y="8">:</tspan></text></g><g transform="translate(1)"><text fill="#475066" font-family="HelveticaNeue-Medium, Helvetica Neue" font-weight="400" letter-spacing=".493"><tspan x=".143" y="8">TOTAL WIDTH</tspan><tspan x="57.559" y="8">:</tspan></text><text fill="#15101C" fill-opacity=".5" font-family="HelveticaNeue, Helvetica Neue"><tspan x="68.614" y="7">1920px</tspan></text></g><g transform="translate(1 15.392)"><text fill="#15101C" fill-opacity=".5" font-family="HelveticaNeue, Helvetica Neue"><tspan x="44.807" y="7">40px</tspan></text><text fill="#475066" font-family="HelveticaNeue-Medium, Helvetica Neue" font-weight="400" letter-spacing=".493"><tspan x=".486" y="8">OFFSET</tspan><tspan x="33.368" y="8">:</tspan></text></g></g><g font-size="7.84" transform="translate(216 114)"><g transform="translate(1 40.078)"><text fill="#15101C" fill-opacity=".5" font-family="HelveticaNeue, Helvetica Neue"><tspan x="46.496" y="7.59">5px</tspan></text><text fill="#475066" font-family="HelveticaNeue-Medium, Helvetica Neue" font-weight="400" letter-spacing=".493"><tspan x=".471" y="8.03">GUTTER</tspan><tspan x="34.796" y="8.03">:</tspan></text></g><g transform="translate(0 26.902)"><text fill="#15101C" fill-opacity=".5" font-family="HelveticaNeue, Helvetica Neue"><tspan x="85.519" y="7.027">50px</tspan></text><text fill="#475066" font-family="HelveticaNeue-Medium, Helvetica Neue" font-weight="400" letter-spacing=".493"><tspan x=".914" y="8.03">COLUMNS WIDTH</tspan><tspan x="74.541" y="8.03">:</tspan></text></g><g transform="translate(1)"><text fill="#475066" font-family="HelveticaNeue-Medium, Helvetica Neue" font-weight="400" letter-spacing=".493"><tspan x=".143" y="8.03">TOTAL WIDTH</tspan><tspan x="57.559" y="8.03">:</tspan></text><text fill="#15101C" fill-opacity=".5" font-family="HelveticaNeue, Helvetica Neue"><tspan x="68.686" y="7.027">768px</tspan></text></g><g transform="translate(1 13.176)"><text fill="#15101C" fill-opacity=".5" font-family="HelveticaNeue, Helvetica Neue"><tspan x="44.864" y="7.027">0px</tspan></text><text fill="#475066" font-family="HelveticaNeue-Medium, Helvetica Neue" font-weight="400" letter-spacing=".493"><tspan x=".486" y="8.03">OFFSET</tspan><tspan x="33.368" y="8.03">:</tspan></text></g></g><g transform="translate(0 194)"><g fill="#FF9797" transform="translate(0 1.635)"><rect width="127.167" height="34.326" x=".255" fill-opacity=".495" opacity=".2"></rect><rect width="127.167" height="34.326" x=".255" fill-opacity=".495" opacity=".2"></rect><rect width="6.881" height="34.326" fill-opacity=".75"></rect><rect width="6.881" height="34.326" x="10.958" fill-opacity=".495"></rect><rect width="6.881" height="34.326" x="21.917" fill-opacity=".495"></rect><rect width="6.881" height="34.326" x="32.875" fill-opacity=".495"></rect><rect width="6.881" height="34.326" x="43.833" fill-opacity=".495"></rect><rect width="6.881" height="34.326" x="54.791" fill-opacity=".495"></rect><rect width="6.881" height="34.326" x="65.75" fill-opacity=".495"></rect><rect width="6.881" height="34.326" x="76.708" fill-opacity=".495"></rect><rect width="6.881" height="34.326" x="87.666" fill-opacity=".495"></rect><rect width="6.881" height="34.326" x="98.625" fill-opacity=".495"></rect><rect width="6.881" height="34.326" x="109.583" fill-opacity=".495"></rect><rect width="6.881" height="34.326" x="120.541" fill-opacity=".75"></rect></g><g font-size="7.84" transform="translate(145.562)"><g transform="translate(0 13.485)"><text fill="#15101C" fill-opacity=".5" font-family="HelveticaNeue, Helvetica Neue"><tspan x="85.008" y="7">22px</tspan></text><text fill="#475066" font-family="HelveticaNeue-Medium, Helvetica Neue" font-weight="400" letter-spacing=".493"><tspan x=".109" y="8">COLUMNS WIDTH</tspan><tspan x="73.736" y="8">:</tspan></text></g><g><text fill="#475066" font-family="HelveticaNeue-Medium, Helvetica Neue" font-weight="400" letter-spacing=".493"><tspan x=".297" y="8">TOTAL WIDTH</tspan><tspan x="57.713" y="8">:</tspan></text><text fill="#15101C" fill-opacity=".5" font-family="HelveticaNeue, Helvetica Neue"><tspan x="69.102" y="7">320px</tspan></text></g></g></g></svg></div><div class="col-xs-12 col-md-6"><img src="/img/work/cleancrm/guidelines.jpg" alt="grid interface"/></div><div class="col-xs-12 col-md-6"><img src="/img/work/cleancrm/screens-1.jpg" alt="screen sizes responsive"/></div></div></div></div></div></div></article><article role="article" class="margin-top-25"><hr/><div class="container margin-top-25"><div class="row"><div class="col-md-3"><h2 class="section-title">INTERACTIONS</h2></div><div class="col-md-9"><p></p><p>Managing all interactions across the application to create a seamless experience will make the product stand out.</p><div class="margin-top-25"><div class="row"><div class="col-xs-12 col-md-12"><img src="/img/work/cleancrm/modal-warning.jpg" alt="modal-warning"/></div><div class="col-xs-12 col-md-12"><img src="/img/work/cleancrm/edit-information.jpg" alt="modal-warning"/></div><div class="col-xs-12 col-md-12"><img src="/img/work/cleancrm/modals-2.jpg" alt="Modals"/></div></div></div></div></div></div></article><article role="article" class="margin-top-25"><hr/><div class="container margin-top-25"><div class="row"><div class="col-md-3"><h2 class="section-title">DESIGN LANGUAGE</h2></div><div class="col-md-9"><p></p><p>I helped introducing a new design lenguage to make their product easier to navigate and find information. I created a UI Library and design system to make it easier for designers and developers to continue the work after I leave so they can continue working on the platform without having to worry about getting off track.</p><div class="row"><div class="col-xs-12 col-md-12"><img src="/img/work/cleancrm/component-3.jpg" alt="component"/></div></div></div></div></div></article><article role="article" class="margin-top-25"><hr/><div class="container margin-top-25"><div class="row"><div class="col-md-3"><h2 class="section-title">File structure</h2></div><div class="col-md-9"><p></p><p>Getting proper organization on your files and naming conventions help you to keep sanity on your projects.</p></div></div><div class="row"><div class="col-xs-12 col-md-12"><img src="/img/work/cleancrm/sketch-screenshot.jpg" alt="component" class="shadow-1"/></div></div></div></article><article role="article"><hr/><div class="container margin-top-25"><div class="row"><div class="col-md-3"><h2 class="section-title">INTERFACE</h2></div><div class="col-md-9"><p></p><p>The platform helps keeping track of potential and current customers, everything while giving them feedback on the health of the business at a glance.</p></div></div><div class="row"><div class="col-xs-12 col-md-7"><img src="/img/work/cleancrm/1-2-4_Dashboard-Home-Recurring-Remove-Payment.jpg" alt="Recurring payments Dash" class="shadow-1"/></div><div class="col-xs-12 col-md-5"><img src="/img/work/cleancrm/3-3-1_Notes_Booking-Upcoming-Points.jpg" alt="Booking_Notes" class="shadow-1"/></div><div class="col-xs-12 col-md-5"><img src="/img/work/cleancrm/4-2-4_Quotes-Expanded-Notification_Box.jpg" alt="Quotes_Notes" class="shadow-1"/></div></div></div></article><article role="article"><hr/><div class="container margin-top-25"><div class="row"><div class="col-md-3"><h2 class="section-title">RESULTS</h2></div><div class="col-md-9"><p></p><p>The client was really happy and we were dog fooding a beta with plans to transform the product into a Sass company. </p><p>There are three things I think will have the most impact on my ongoing career and process:</p><h2></h2><p class="bold">Planning and management</p><p>I learned a lot about how to manage design sprints and the expectations at the end of them.  </p><p class="bold">Exploring from early on the project</p><p>Every project is different, and the process most adjusts to resources, timeline, and constraints.</p><p class="bold">Deep research and understanding of the business</p><p>Getting to understand the business pains from top to bottom is crucial if you plan to offer solutions to that. Get and clean for a few days if that's necessary.</p></div></div></div></article><section role="main" id="work-section"><div class="container"><div class="row"><div class="col-md-6 col-xs-8"><h2 class="section-title">SEE MORE PROJECTS</h2></div></div></div><hr/><div class="container"><div class="row"><div class="col-xs-6 col-sm-6 col-md-3 col-md-offset-3 work"><a href="{{site.baseurl}}/work/condominium" class="no-link"><div class="project-image"><img src="{{site.baseurl}}/img/preview/work-preview/work_preview-condominium.jpg" alt="Condominium" class="project-photo"/></div><div class="tags"><div class="tag">Frontend</div><div class="tag">Product Design</div></div><div class="project-text"><p class="no-link">Designed Lead the UI development of a new application for condominium managers and tenants.</p><a href="{{site.baseurl}}/work/condominium" class="project-description color-6 text-underline-1 color-3">See case study</a></div></a></div><div class="col-xs-6 col-sm-6 col-md-3 work"><a href="https://www.starklabs.io/" target="_blank" class="no-link"><div class="project-image"><img src="{{site.baseurl}}/img/preview/work-preview/work_preview-stark.jpg" alt="stark" class="project-photo"/></div><div class="tags"><div class="tag">Illustration</div><div class="tag">Design</div><div class="tag">Dev.</div></div><div class="project-text"><p class="no-link">Developed, illustrated and designed the marketing site for a new Chatbot/Ai development agency.</p><a href="https://www.starklabs.io/" class="project-description color-6 text-underline-1 color-3">Visit site</a></div></a></div><div class="col-xs-6 col-sm-6 col-md-3 work"><a href="{{site.baseurl}}/work/webpack" class="no-link"><div class="project-image"><img src="{{site.baseurl}}/img/preview/work-preview/work_preview-webpack.jpg" alt="webpack" class="project-photo"/></div><div class="tags"><div class="tag">Design</div><div class="tag">Branding</div></div><div class="project-text"><p class="no-link">Designing the marketing and brand of an Open Source plugin for the most popular front-end bundle.</p><a href="{{site.baseurl}}/work/webpack" class="project-description color-6 text-underline-1 color-3">See case study</a></div></a></div></div></div></section>
